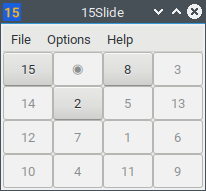
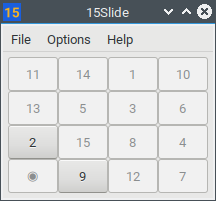
added small border around TileGrid

diff --git a/src/main.cpp b/src/main.cpp
@@ -26,7 +26,7 @@
  *
  * \author John Jekel
  * \date 2017-2018
- * \copyright <a href="https://github.com/JZJisawesome/15Slide/blob/master/LICENSE">GNU Lesser General Public Licence Version 3 (LGPL v.3.0)</a>
+ * \copyright <a href="https://github.com/JZJisawesome/15Slide/blob/master/LICENSE">GNU Lesser General Public Licence Version 3 (LGPL v3.0)</a>
  */
 
 
@@ -82,7 +82,7 @@ int main(int argc, char *argv[])
 
 
         if constexpr (ProgramStuff::CLEAR_SCREEN_ON_START)
-            std::cout << "\x1b[2J";//dosent work well, maybe not at all on windows
+            std::cout << "\x1b[2J";//dosent work well, maybe not at all on Windows
 
         std::cout << termcolor::reverse << termcolor::bold;
         std::cout << "15Slide" << "\n";
@@ -97,6 +97,7 @@ int main(int argc, char *argv[])
             g_warning("The 15Slide \"data\" folder could not be found; 15Slide may act weird or may not work at all");
         #endif
 
+        //does nothing usefull, no settings menu anaways
         if constexpr (GTKSlide::RUNNING_UNINSTALLED)
             Glib::setenv ("GSETTINGS_SCHEMA_DIR", ".", false);
 

diff --git a/src/CommandUI.cpp b/src/CommandUI.cpp
@@ -428,7 +428,7 @@ void CommandUI::displayLicence()
 
 
     cout << endl;
-    cout << "Termcolor" << endl;
+    cout << "Termcolor" << "\n";
     cout << "A header-only C++ library for printing colored messages to the terminal." << "\n";
     cout << "Copyright (c) 2013, Ihor Kalnytskyi." << "\n";
     cout << "All rights reserved." << "\n";

diff --git a/src/GTKSlide/TileGrid.cpp b/src/GTKSlide/TileGrid.cpp
@@ -49,6 +49,10 @@ namespace GTKSlide
         else
             throw std::invalid_argument {"Grid invalid!"};
 
+        set_border_width(5);
+
+        //create grid of buttons
+
         //create the first row of tile buttons
         for (std::uint_fast32_t i {0}; i < 4; ++i)
         {

diff --git a/src/GTKSlide/MainWindow.cpp b/src/GTKSlide/MainWindow.cpp
@@ -60,7 +60,6 @@ namespace GTKSlide
         }
 
         set_title("15Slide");
-        //set_border_width(10);//fixme makes menu bar look weird
 
         set_resizable(false);
         set_position(Gtk::WIN_POS_CENTER);
